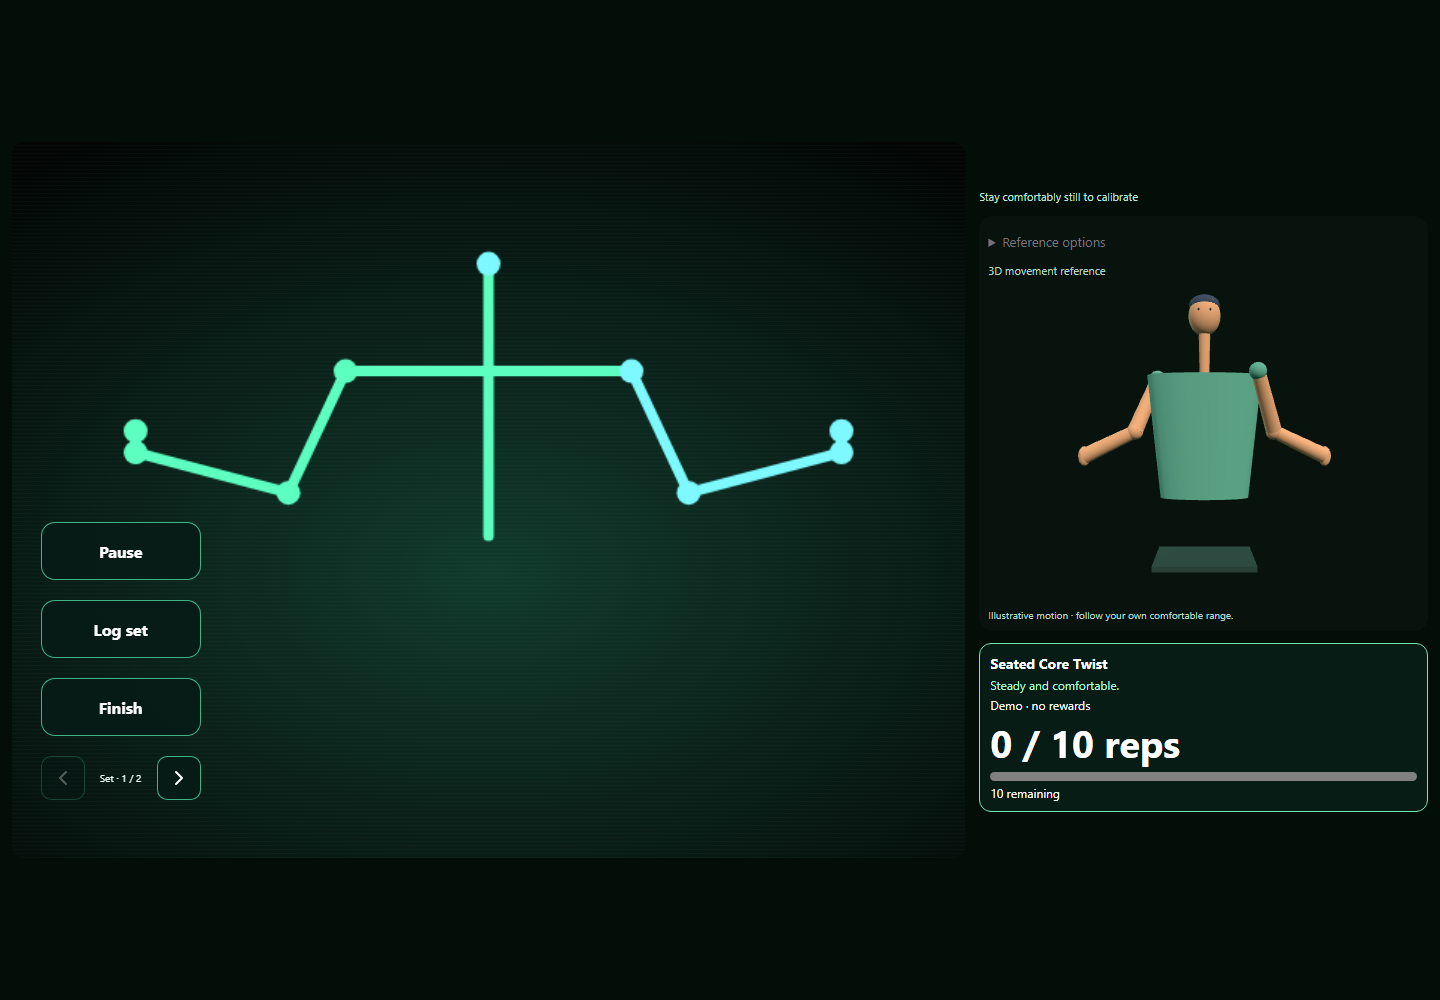
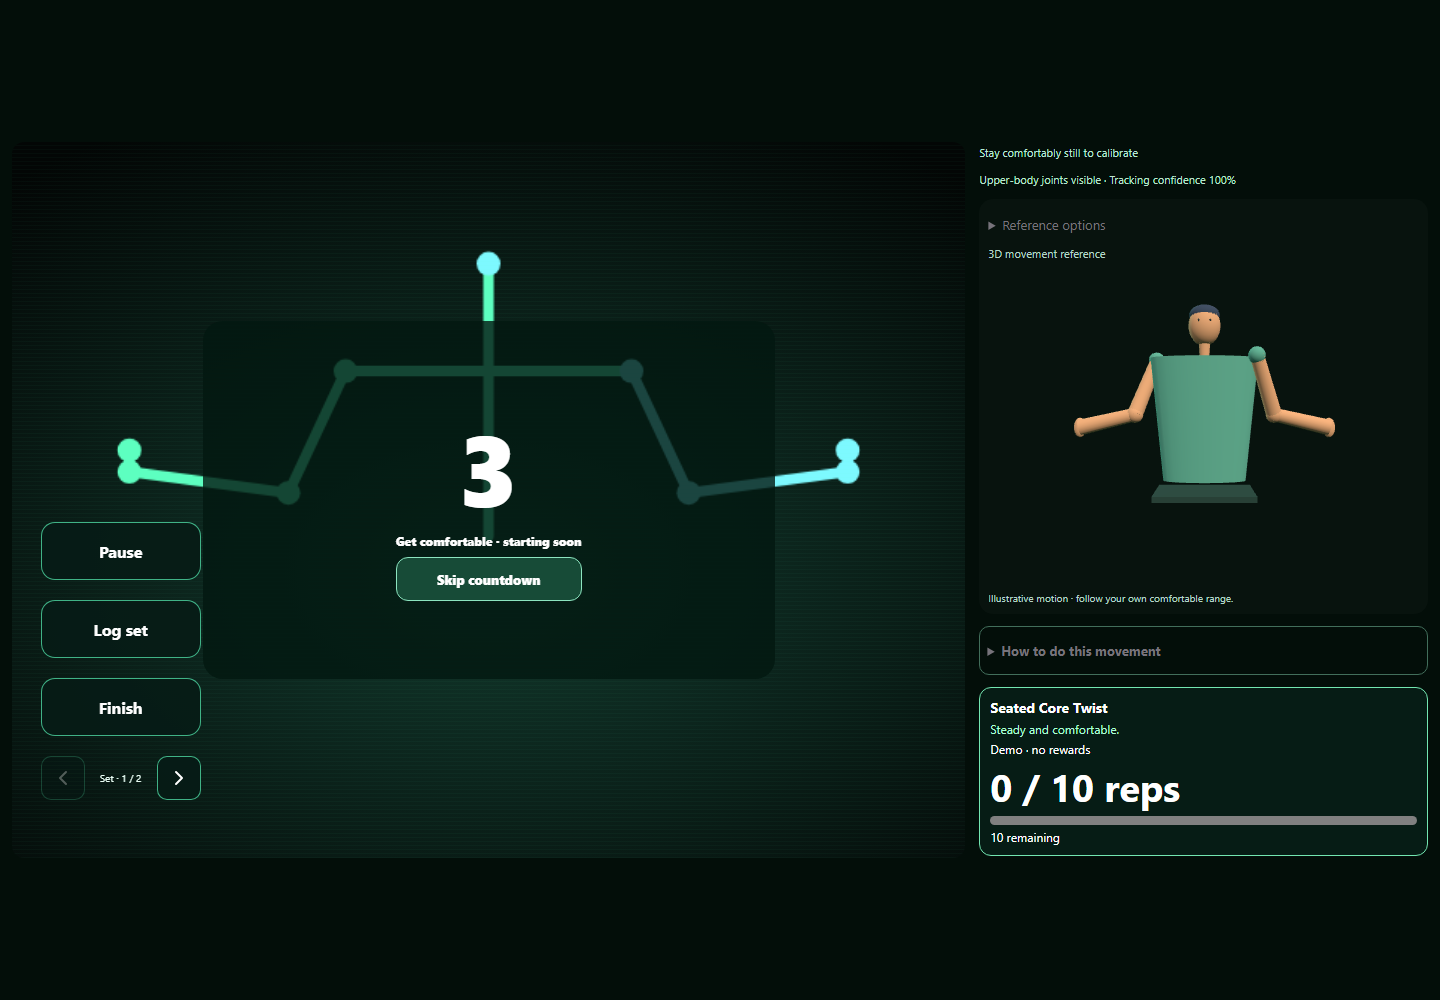
test(coach): verify Motion Coach inspired practice enhancements

diff --git a/e2e/form-coach.spec.ts b/e2e/form-coach.spec.ts
@@ -77,8 +77,13 @@ test('either-hand hovering changes exercises, logs one set, and finishes from fu
   await expect(page.locator('.fc-count')).toHaveText('1')
   await send([])
   await expect(page.locator('.fc-beat')).not.toHaveClass(/running/)
+  await expect(page.locator('.fc-camera-readiness')).toContainText('confidence 0%')
   await send(upperPose('seatedTwist', 0))
   await expect(page.locator('.fc-beat')).toHaveClass(/running/)
+  const outside = upperPose('seatedTwist', 0); outside[15].x = 1.1; await send(outside)
+  await expect(page.locator('.fc-camera-readiness')).toContainText('farther back')
+  await send(upperPose('seatedTwist', 0))
+  await expect(page.locator('.fc-camera-readiness')).toContainText('joints visible')
   const hover = async (id: string, wrist: 15 | 16) => {
     await page.locator(`[data-gesture="${id}"]`).scrollIntoViewIfNeeded()
     const box = (await page.locator(`[data-gesture="${id}"]`).boundingBox())!
@@ -90,6 +95,7 @@ test('either-hand hovering changes exercises, logs one set, and finishes from fu
   }
   await hover('log', 15)
   await expect(page.locator('.fc-message')).toContainText('1 reps logged', { timeout: 9000 })
+  await expect(page.locator('.fc-set-recap')).toContainText('Last saved set · 1 reps')
   await page.waitForTimeout(3200)
   const stored = await page.evaluate(() => JSON.parse(localStorage.getItem('bloom-workouts-v1')!))
   expect(stored.workouts[0].sets).toHaveLength(1)
@@ -285,4 +291,56 @@ test('narrow fullscreen pages show one spacious action with reachable arrows', a
   await expect(page.getByRole('button', { name: 'Pause', exact: true })).toBeVisible()
   await expect(page.locator('.fc-guide-column .fc-workout-hud')).toBeVisible()
   await expect(page.locator('.fc-guide-column .fc-reference')).toBeVisible()
+})
+
+
+test('new seated movements are searchable, guided and camera-demo counted with tempo', async ({ page }) => {
+  test.setTimeout(100000)
+  await page.addInitScript(() => localStorage.removeItem('bloom-coach-view'))
+  await page.goto('/#workouts/coach', { waitUntil: 'domcontentloaded' })
+  await page.getByText('Workout options', { exact: true }).click()
+  await page.getByRole('button', { name: 'Exercise library', exact: true }).click()
+  await page.getByRole('searchbox', { name: 'Find a movement', exact: true }).fill('lateral')
+  await expect(page.getByRole('radio', { name: 'Seated Lateral Raise', exact: true })).toBeVisible()
+  await expect(page.getByRole('radio', { name: 'Seated Bicep Curl', exact: true })).toHaveCount(0)
+  await page.getByRole('searchbox', { name: 'Find a movement', exact: true }).fill('unknown-zebra')
+  await expect(page.getByRole('status', { name: '' }).filter({ hasText: 'No movements match' })).toBeVisible()
+  await page.getByRole('searchbox', { name: 'Find a movement', exact: true }).fill('curl')
+  await page.getByRole('radio', { name: 'Seated Bicep Curl', exact: true }).click()
+  await page.getByRole('combobox', { name: 'Movement tempo', exact: true }).selectOption('1:3')
+  await page.getByText('How to do this movement', { exact: true }).click()
+  await expect(page.locator('.fc-movement-guide')).toContainText('elbows')
+  await page.getByRole('button', { name: 'Watch the demo athlete', exact: true }).click()
+  await expect.poll(async () => Number((await page.locator('.fc-workout-hud b').textContent())!.split('/')[0]), { timeout: 25000 }).toBeGreaterThan(0)
+  await expect(page.locator('.fc-tempo-cue')).toContainText('Tempo estimate', { timeout: 12000 })
+  await page.getByRole('button', { name: 'Pause', exact: true }).click()
+  const count = await page.locator('.fc-workout-hud b').textContent()
+  await page.waitForTimeout(700)
+  await expect(page.locator('.fc-workout-hud b')).toHaveText(count!)
+  await page.getByRole('button', { name: 'Resume', exact: true }).click()
+  await page.getByRole('button', { name: 'Fullscreen workout', exact: true }).click()
+  await expect(page.locator('.fc-split')).toHaveClass(/fc-workout-focused/)
+  await page.screenshot({ path: 'docs/screenshots/form-coach-motion-practice.png' })
+  await page.getByRole('button', { name: 'More controls', exact: true }).click()
+  await page.getByRole('button', { name: 'Exit fullscreen', exact: true }).click()
+  await page.getByRole('combobox', { name: 'Selected workout', exact: true }).selectOption('lateralRaise')
+  await expect.poll(async () => Number((await page.locator('.fc-workout-hud b').textContent())!.split('/')[0]), { timeout: 25000 }).toBeGreaterThan(0)
+  await page.reload({ waitUntil: 'domcontentloaded' })
+  await page.getByText('Workout options', { exact: true }).click()
+  await expect(page.getByRole('combobox', { name: 'Movement tempo', exact: true })).toHaveValue('1:3')
+})
+
+test('saved set recap shows same-exercise progress and keeps details folded', async ({ page }) => {
+  await page.addInitScript(() => {
+    const base = {seconds:40,joules:2,kcal:1,power:1,peak:1,leftWork:1,rightWork:1,leftAngle:90,rightAngle:90,range:null,compensation:0,exercise:'bicepCurl'}
+    localStorage.setItem('bloom-coach-history-v1',JSON.stringify([{...base,id:'a',at:Date.now()-1000,reps:8,score:85},{...base,id:'b',at:Date.now(),reps:10,score:95}]))
+    localStorage.removeItem('bloom-coach-view')
+  })
+  await page.goto('/#workouts/coach', { waitUntil: 'domcontentloaded' })
+  await page.getByRole('combobox', { name: 'Selected workout', exact: true }).selectOption('bicepCurl')
+  await expect(page.locator('.fc-set-recap')).not.toHaveAttribute('open')
+  await page.getByText('Last saved set · 10 reps', { exact: true }).click()
+  await expect(page.locator('.fc-set-recap')).toContainText('+10 points')
+  await expect(page.locator('.fc-set-recap')).toContainText('Today: 2 sets · 18 reps')
+  await expect(page.locator('.fc-movement-guide')).not.toHaveAttribute('open')
 })

diff --git a/docs/MOTION_COACH_ENHANCEMENTS.md b/docs/MOTION_COACH_ENHANCEMENTS.md
@@ -26,3 +26,14 @@ These sources informed the choices of features; Bloom’s camera scores remain e
 - [x] 6. show a compact saved-set recap and export optional tempo results
 
 - [x] 7. make the growing movement library searchable and integrate new lifts with history
+
+## Verification
+
+- Production build and TypeScript passed.
+- Targeted source lint passed.
+- 56 unit tests passed, covering seated curl and lateral-raise cycles, single-arm curls, elbow drift, tempo phase allocation and interruption handling, camera framing, recaps, lift catalog integration and Markdown export.
+- All 12 browser scenarios passed against the production preview. They include the existing hand-hover/fullscreen regressions, edge-of-frame scoring suspension, new movement search, both new demo counters, tempo preferences, and saved-set recap visibility.
+- The preview used generated video and simulated landmarks; physical webcam accuracy was not measured.
+- Visual verification: `docs/screenshots/form-coach-motion-practice.png` and the updated desktop/mobile reachability screenshots.
+
+The default remains Basic. Find the new movements in Selected workout or the searchable Exercise library. Choose optional tempo under Workout options. Exercise guidance and saved-set details are folded beside the camera. New exercises share personal range calibration and log into the existing workout history.
